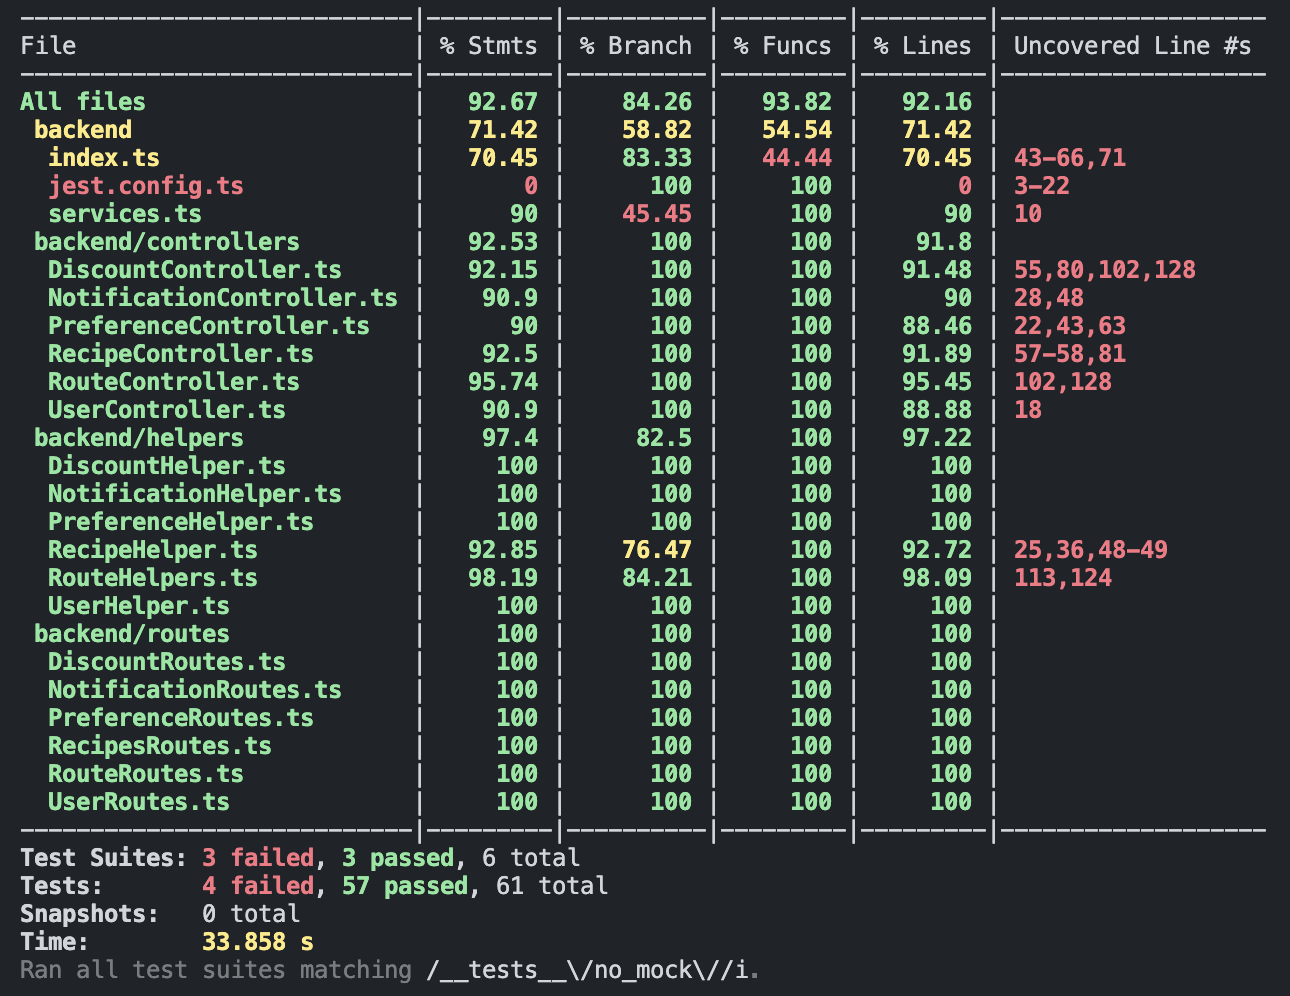
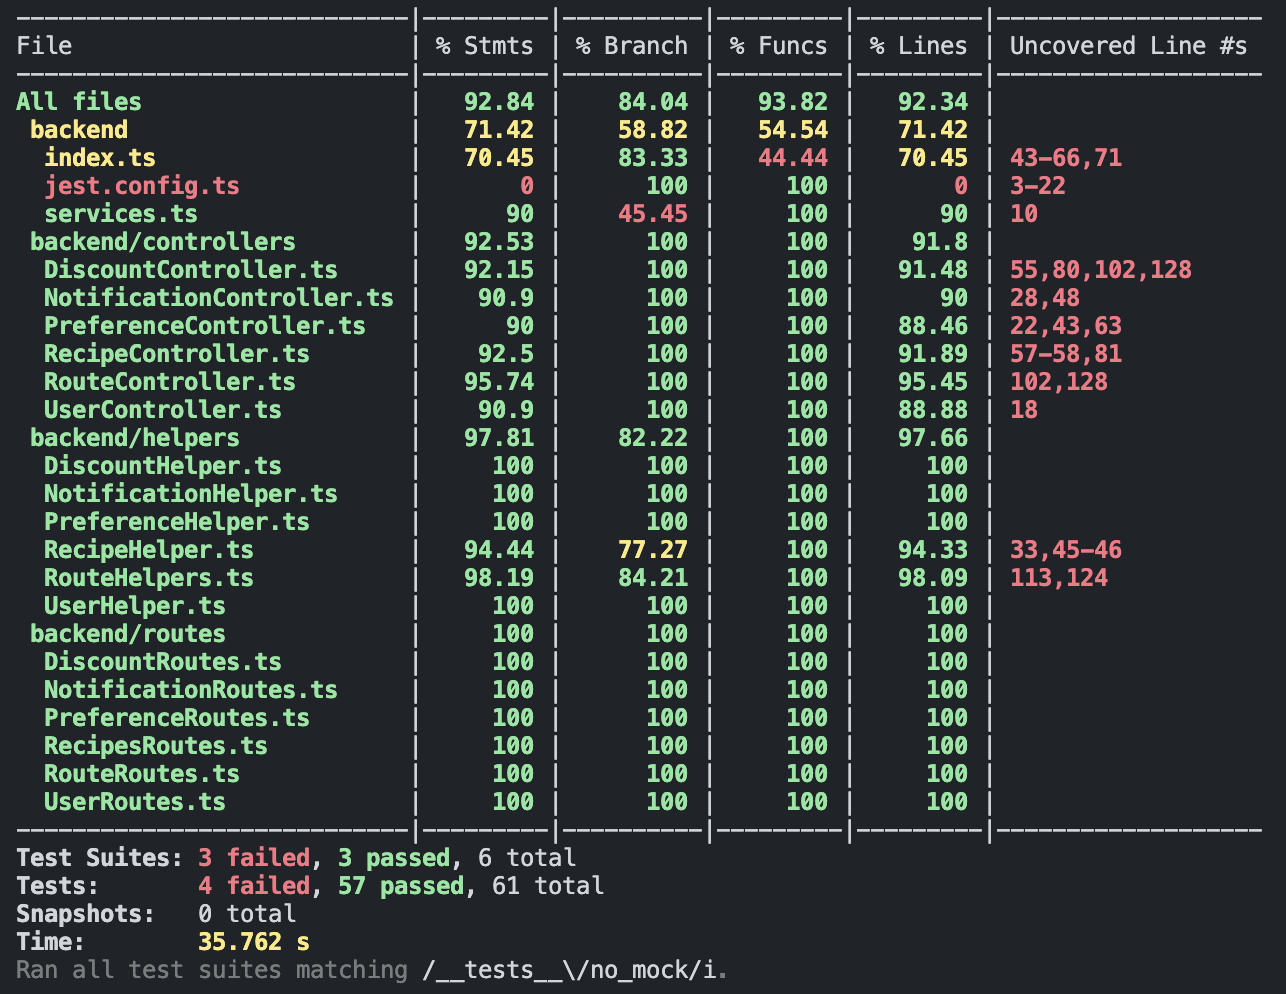
Update m5 docs

Changed region(s): [[0.0, 0.0, 0.9642, 0.998], [0.7776, 0.0312, 0.9331, 0.0624], [0.0, 0.0312, 0.0622, 0.0624]]

diff --git a/backend/helpers/RecipeHelper.ts b/backend/helpers/RecipeHelper.ts
@@ -21,14 +21,11 @@ const ROUTES_COLLECTION_NAME = "routes";
 // helper function to fetch recipe data from Edamam API
 export async function fetchRecipe(query: string): Promise<Recipe[]> {
   try {
-    if (!process.env.EDAMAM_APP_ID || !process.env.EDAMAM_API_KEY) {
-      throw new Error("Edamam API credentials are missing");
-    }
     const params = new URLSearchParams({
       type: "public",
       q: query,
-      app_id: process.env.EDAMAM_APP_ID,
-      app_key: process.env.EDAMAM_API_KEY,
+      app_id: process.env.EDAMAM_APP_ID ?? "",
+      app_key: process.env.EDAMAM_API_KEY ?? "",
     });
 
     const response = await fetch(`${EDAMAM_BASE_URL}?${params.toString()}`);
